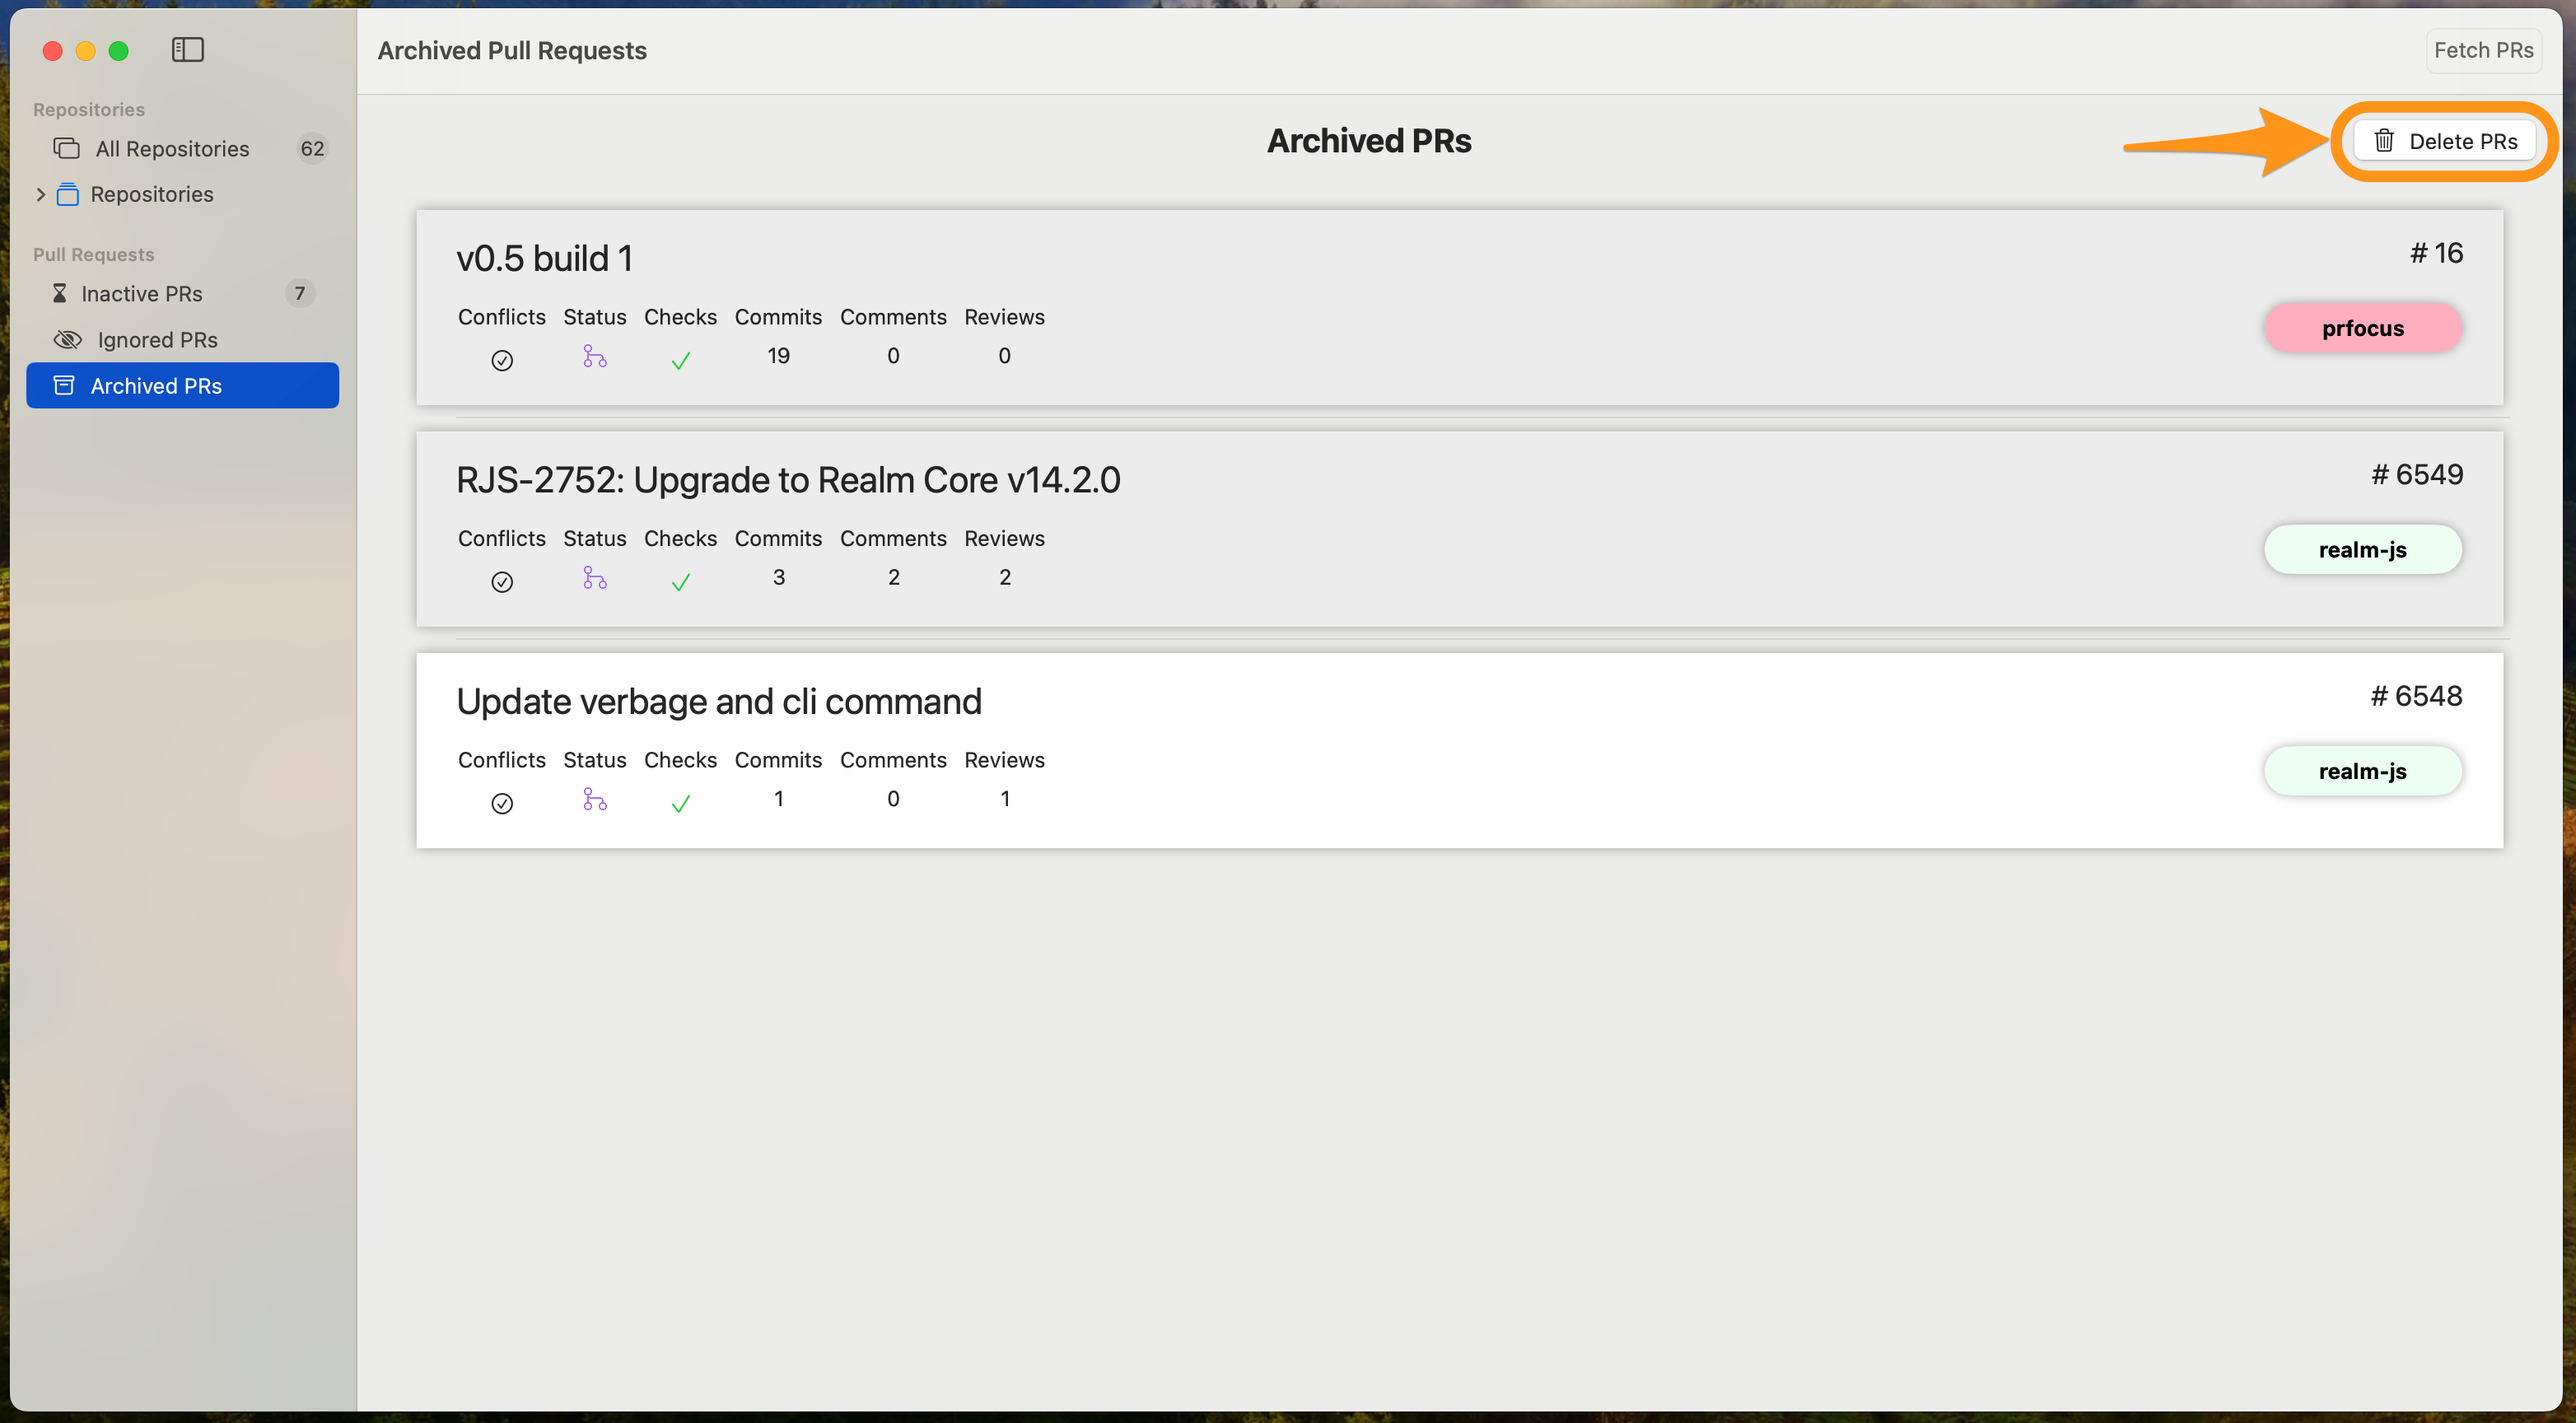
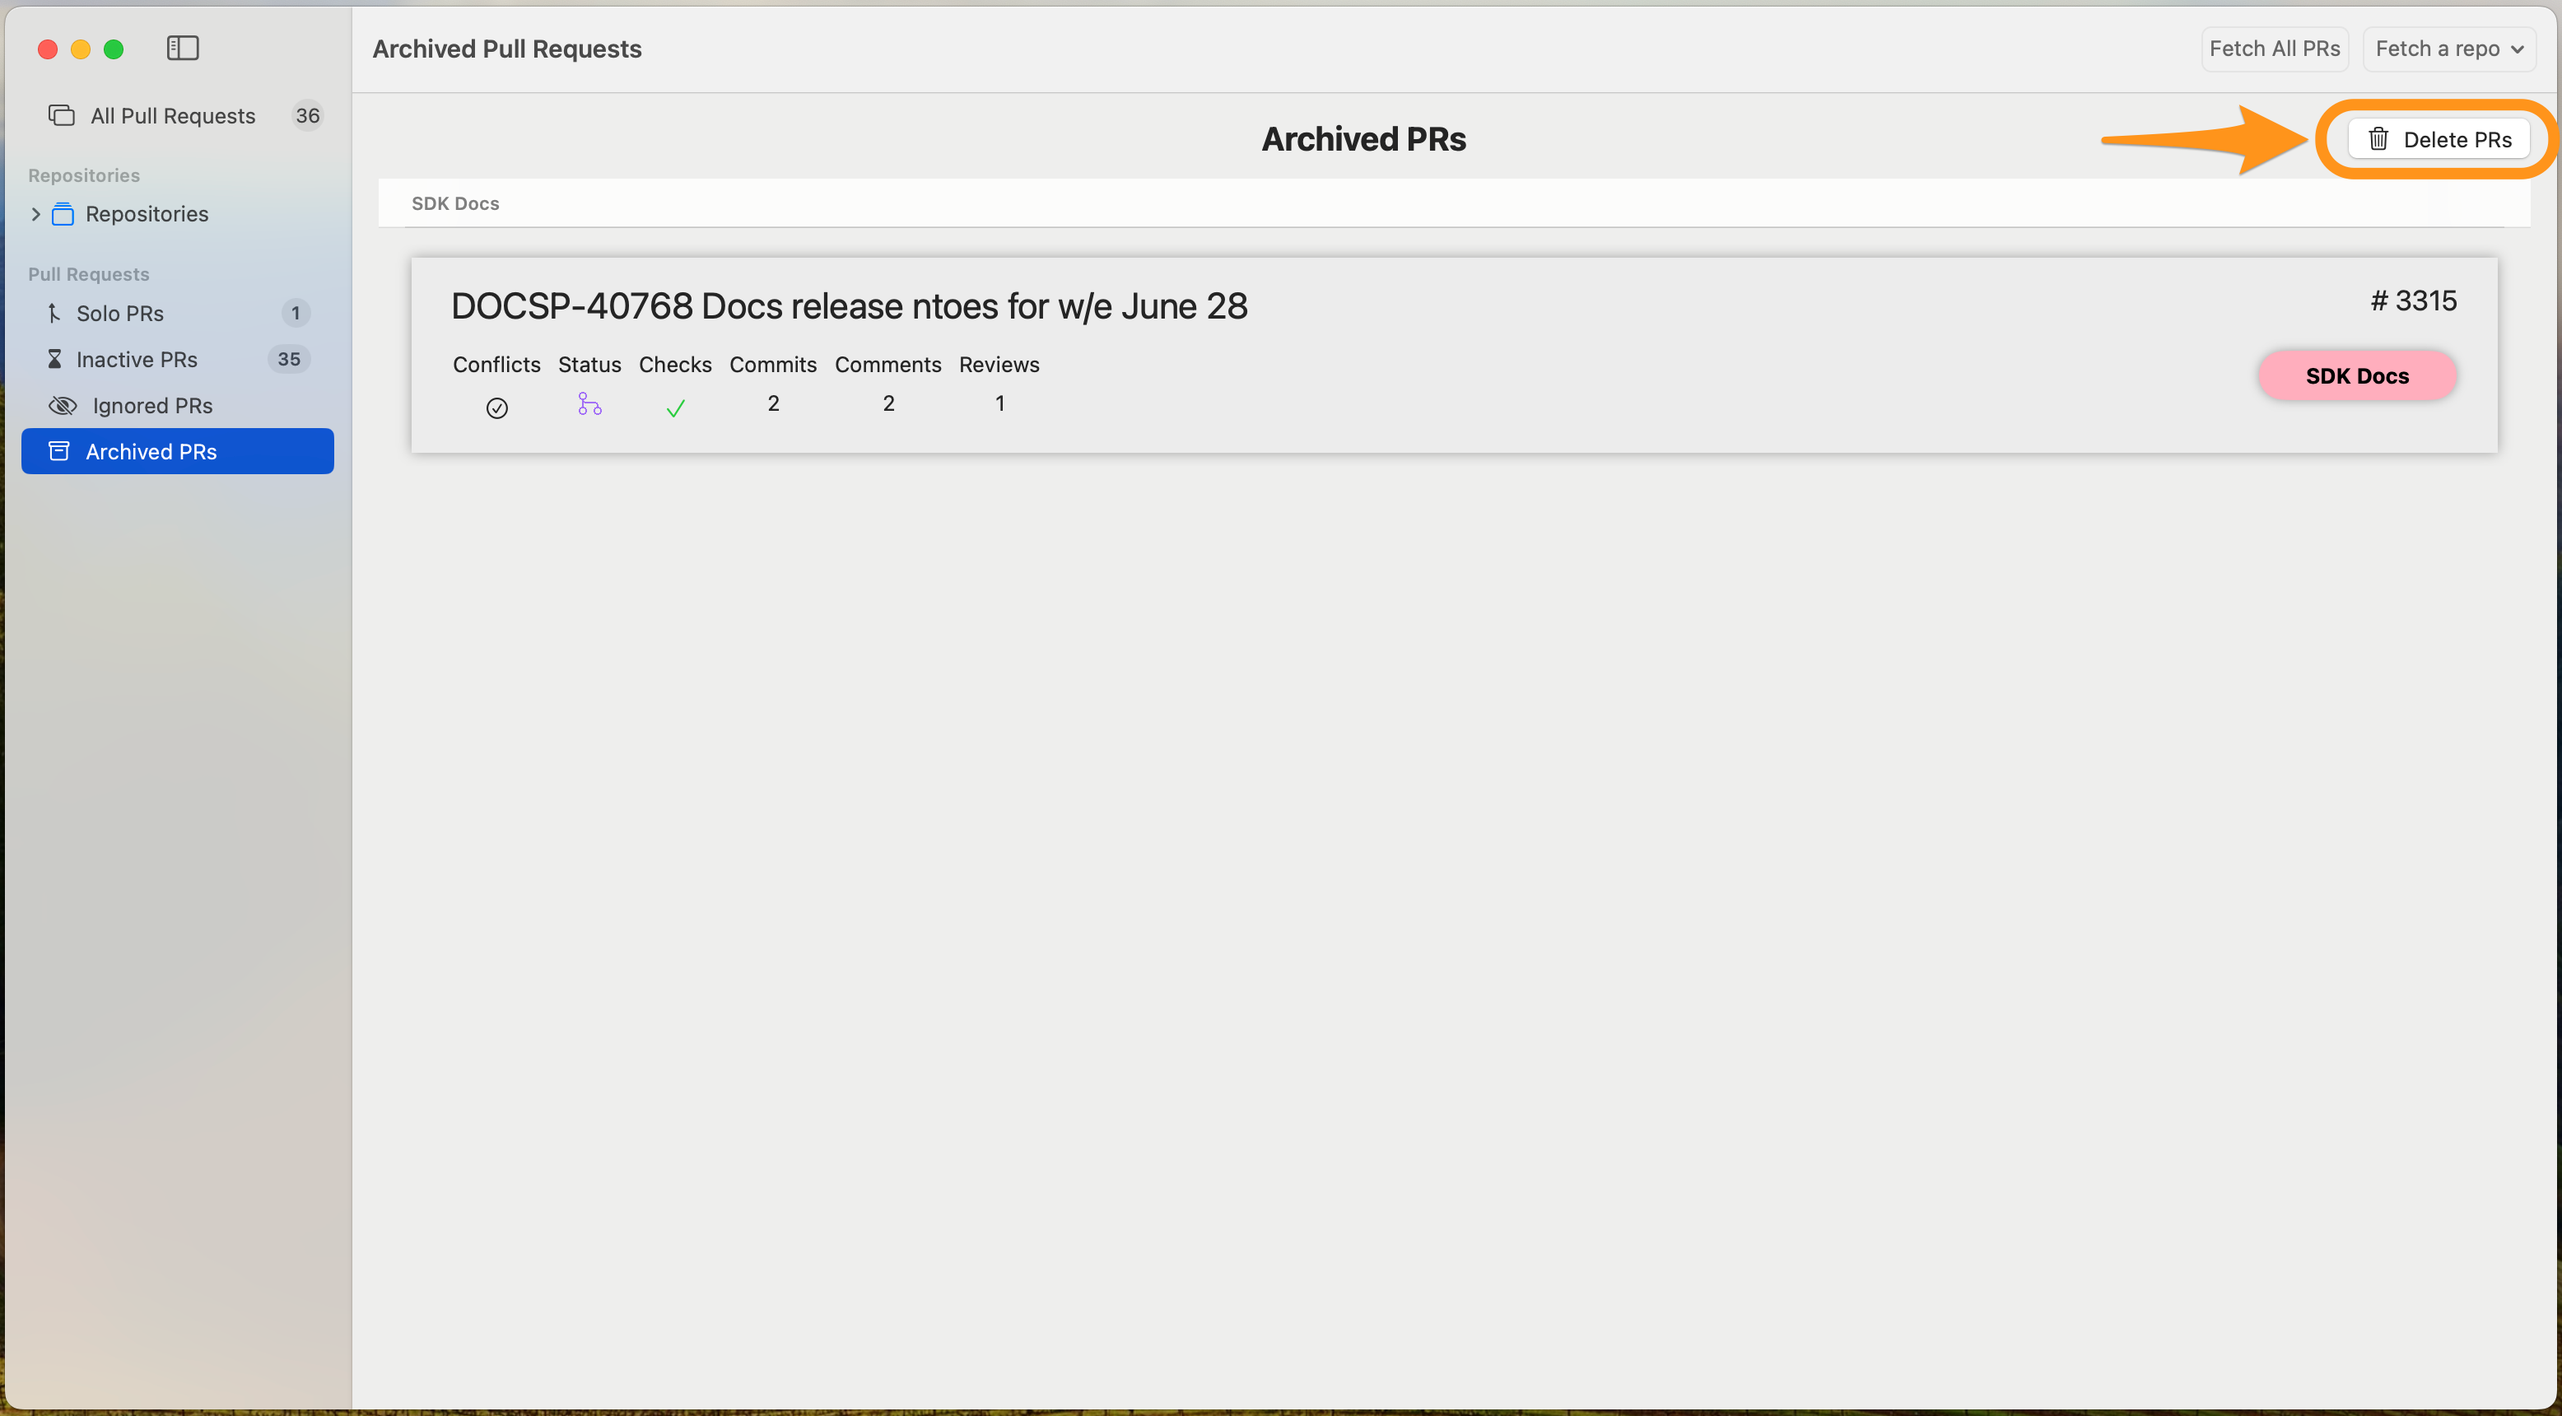
Update UI

diff --git a/content/en/docs/pull-requests/archived-prs.md b/content/en/docs/pull-requests/archived-prs.md
@@ -6,13 +6,13 @@ description: >
   When a PR is closed, it becomes archived after a time interval you set. You can still view archived PRs.
 ---
 
-Some workflows call for you to be able to view PRs after they have been closed or merged. You may still want to see those PRs in your Repository Dashboard or All Repositories Dashboard for a period of time after the PR status has become closed or merged.
+Some workflows call for you to be able to view PRs after they have been closed or merged. You may still want to see those PRs in your Repository Dashboard or **All Pull Requests** Dashboard for a period of time after the PR status has become closed or merged.
 
 PR Focus is optimized for this case. PRs do not disappear from your repository views immediately when they get closed. Instead, they remain in your repository views for a number of days until they are archived. The default value for this setting is 10 days, but you can configure the number of days until a PR is archived.
 
 ## Archived PRs Dashboard
 
-After some interval, a PR that has been closed or merged moves to the **Archived PRs** Dashboard. This dashboard is a list of PRs that have become archived.
+After some interval, a PR that has been closed or merged moves to the **Archived PRs** Dashboard. This dashboard is a list of PRs that have become archived, sorted by the repositories where they originated.
 
 ![Screenshot showing the Archived PRs Dashboard with a list of full-width PR Summary rows](/images/archived-prs.png)
 
@@ -32,10 +32,10 @@ The only other way a PR can move out of these columns is when it becomes inactiv
 
 You can configure the *Days until archive* setting from:
 
-- [Global Default Settings]({{< ref "docs/settings/_index.md" >}})
+- [App Settings]({{< ref "docs/settings/_index.md" >}})
 - [Repository Settings]({{< ref "docs/repositories/manage-repository.md" >}})
 
-Unless you have customized either the global or the repository setting for days until inactive, the default value for this setting is 10 days.
+The default value for this setting is 10 days.
 
 ### Immediately Archive a PR
 
@@ -57,7 +57,7 @@ You can un-archive a PR from the PR Detail view. Pressing the **Un-Archive** but
 
 ## Deleting Archived PRs
 
-PR Focus v0.5 provides the ability to delete archived PRs. When you're viewing the **Archived PRs** dashboard, you can press the **Delete PRs** button to delete all PRs that are archived. 
+PR Focus provides the ability to delete archived PRs. When you're viewing the **Archived PRs** dashboard, you can press the **Delete PRs** button to delete all PRs that are archived. 
 
 This button is disabled when a background job is running. If you're unable to press the **Delete PRs** button, wait for background jobs to finish and try again.
 
